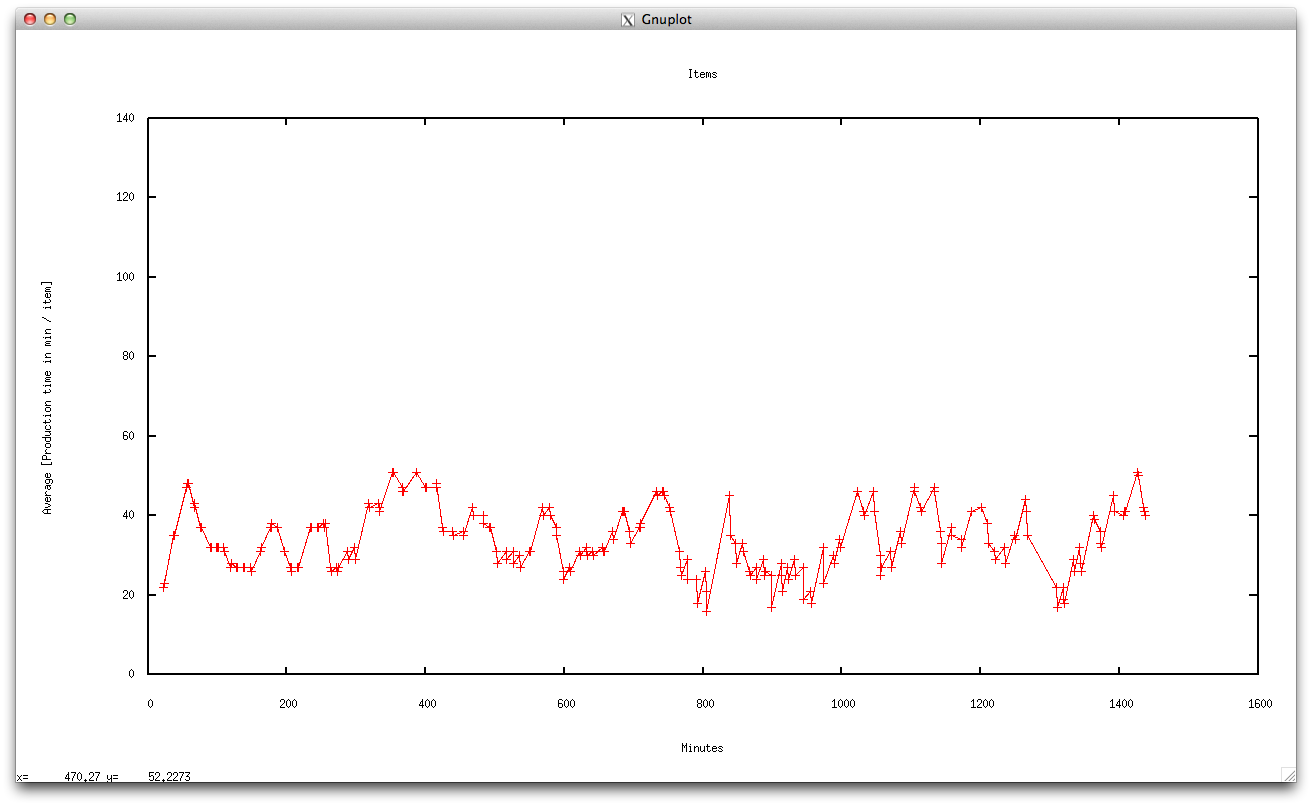
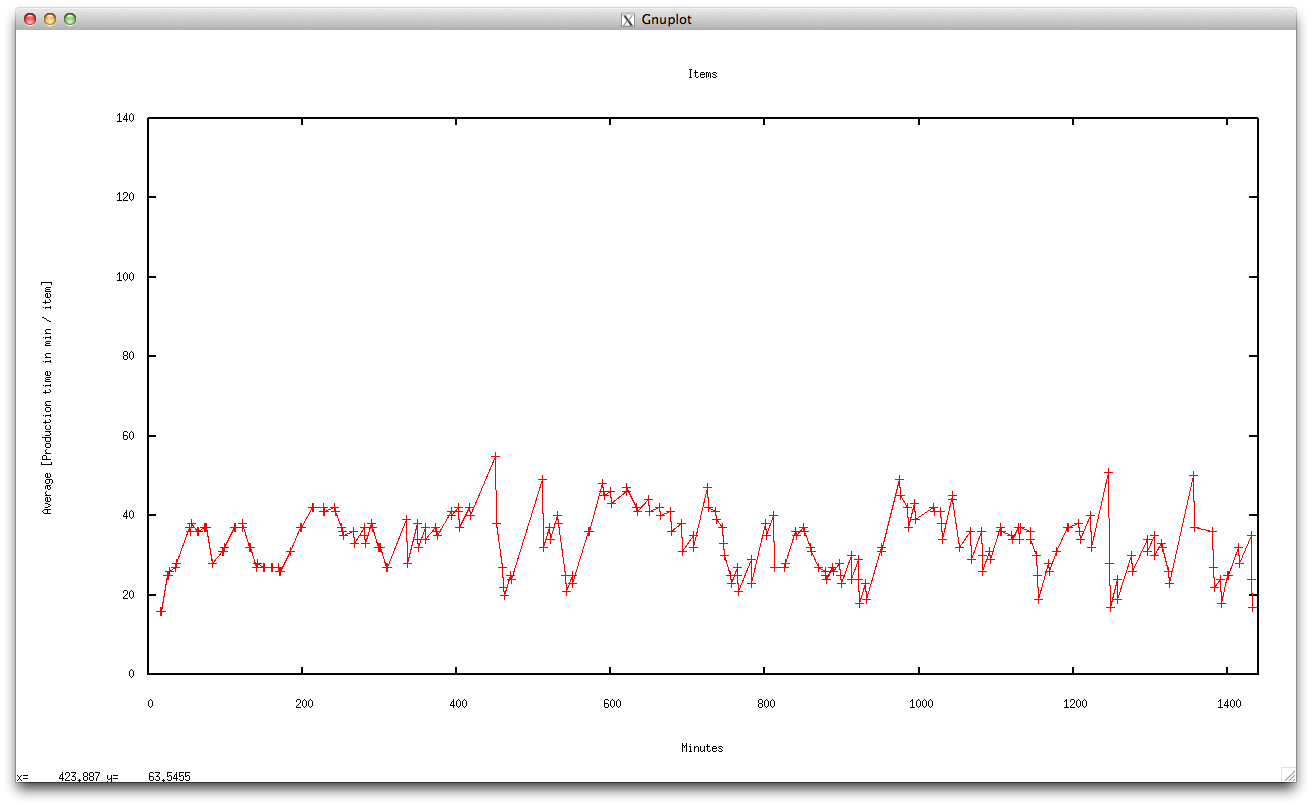
New plots

diff --git a/simulation.rb b/simulation.rb
@@ -110,6 +110,7 @@ end
 Gnuplot.open do |gp|
   Gnuplot::Plot.new( gp ) do |plot|
     plot.yrange "[0:140]"
+    plot.xrange "[0:1440]"
     plot.title  "Items"
     plot.xlabel "Minutes"
     plot.ylabel "Average [Production time in min / item]"

diff --git a/resources/README.md b/resources/README.md
@@ -26,6 +26,6 @@ Min buffers, minimum amount of machines
 
 Min buffers, maximum amount of machines
 
-`ruby simulation.rb --runtime 200 --quiet 1 --buffers 20,20,20 --im 12 --dye 6 --sputt 6 --lac 6 --print 6`
+`ruby simulation.rb --runtime 24 --quiet 1 --buffers 20,20,20 --im 12 --dye 6 --sputt 6 --lac 6 --print 6`
 
 ![4](4.png)
